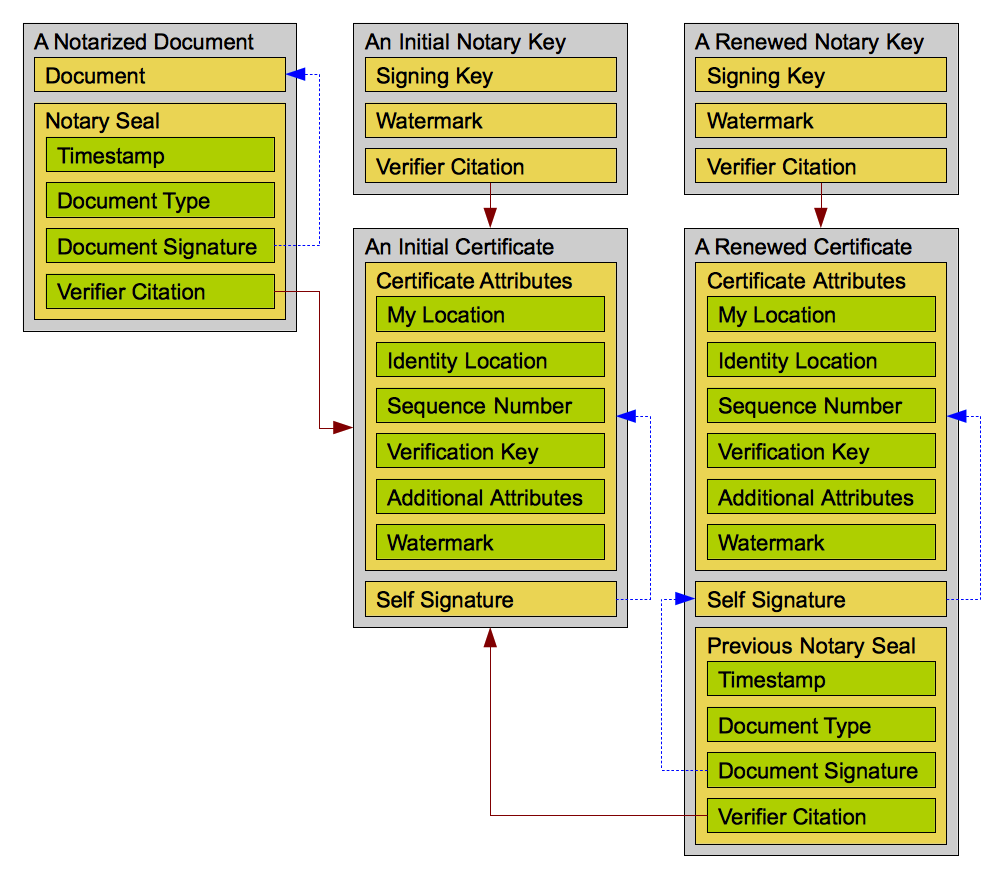
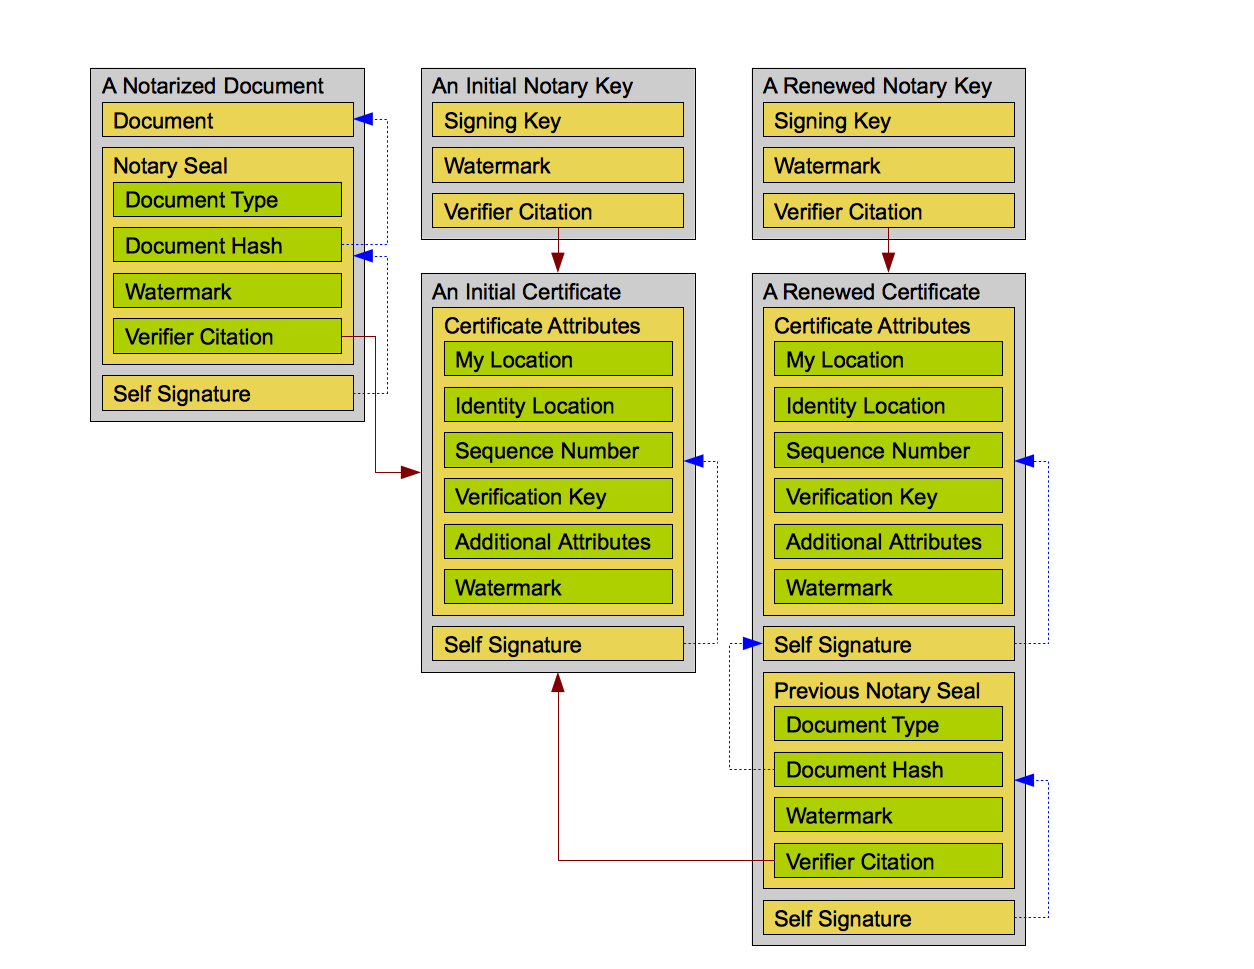
Updated parent pom dependencies to latest version 3.16.

diff --git a/src/main/java/craterdog/notary/V1NotarizationProvider.java b/src/main/java/craterdog/notary/V1NotarizationProvider.java
@@ -291,7 +291,6 @@ public final class V1NotarizationProvider implements Notarization {
 
         logger.debug("Creating the notary seal attributes...");
         SealAttributes attributes = new SealAttributes();
-        attributes.timestamp = DateTime.now();
         attributes.documentType = documentType;
         attributes.documentHash = hashDocument(document);
         attributes.verificationCitation = notaryKey.verificationCitation;
@@ -394,30 +393,25 @@ public final class V1NotarizationProvider implements Notarization {
                 logger.error("The notary seal attributes are missing...");
                 errors.put("seal.attributes.are.missing", seal);
             } else {
-                DateTime timestamp = attributes.timestamp;
                 String documentType = attributes.documentType;
-                String documentHash = attributes.documentHash;
-                DocumentCitation verificationCitation = attributes.verificationCitation;
-                Watermark watermark = attributes.watermark;
-                if (timestamp == null) {
-                    logger.error("The notary seal timestamp is missing...");
-                    errors.put("seal.timestamp.is.missing", seal);
-                }
                 if (documentType == null || documentType.isEmpty()) {
                     logger.error("The notary seal document type is missing...");
                     errors.put("seal.document.type.is.missing", seal);
                 }
+                String documentHash = attributes.documentHash;
                 if (documentHash == null || documentHash.isEmpty()) {
                     logger.error("The notary seal document hash is missing...");
                     errors.put("seal.document.hash.is.missing", seal);
                 }
-                if (verificationCitation == null) {
-                    logger.error("The notary seal verification citation is missing...");
-                    errors.put("seal.verification.citation.is.missing", seal);
-                }
+                Watermark watermark = attributes.watermark;
                 if (watermark == null) {
                     logger.error("The notary seal watermark is missing...");
                     errors.put("seal.watermark.is.missing", seal);
+                }
+                DocumentCitation verificationCitation = attributes.verificationCitation;
+                if (verificationCitation == null) {
+                    logger.error("The notary seal verification citation is missing...");
+                    errors.put("seal.verification.citation.is.missing", seal);
                 }
             }
             if (errors.size() == errorCount) {
@@ -487,13 +481,13 @@ public final class V1NotarizationProvider implements Notarization {
                     logger.error("The notary certificate identity location is missing...");
                     errors.put("certificate.identity.location.is.missing", certificate);
                 }
-                if (attributes.verificationKey == null) {
-                    logger.error("The notary certificate verification key is missing...");
-                    errors.put("certificate.verification.key.is.missing", certificate);
-                }
                 if (attributes.watermark == null) {
                     logger.error("The notary certificate watermark is missing...");
                     errors.put("certificate.watermark.is.missing", certificate);
+                }
+                if (attributes.verificationKey == null) {
+                    logger.error("The notary certificate verification key is missing...");
+                    errors.put("certificate.verification.key.is.missing", certificate);
                 }
             }
             if (errors.size() == errorCount) {

diff --git a/src/main/java/craterdog/notary/SealAttributes.java b/src/main/java/craterdog/notary/SealAttributes.java
@@ -14,7 +14,6 @@ import com.fasterxml.jackson.annotation.JsonAnySetter;
 import craterdog.smart.SmartObject;
 import java.util.LinkedHashMap;
 import java.util.Map;
-import org.joda.time.DateTime;
 
 
 /**
@@ -23,11 +22,6 @@ import org.joda.time.DateTime;
  * @author Derk Norton
  */
 public final class SealAttributes extends SmartObject<SealAttributes> {
-
-    /**
-     * The date and time that the document was notarized.
-     */
-    public DateTime timestamp;
 
     /**
      * The type of document that this seal notarizes.
@@ -49,15 +43,15 @@ public final class SealAttributes extends SmartObject<SealAttributes> {
     public String documentHash;
 
     /**
-     * A citation to the public key that can be used to verify this notary seal.
-     */
-    public DocumentCitation verificationCitation;
-
-    /**
      * The lifetime of the notary key associated with this certificate and the version of the
      * algorithm it uses for signing.
      */
     public Watermark watermark;
+
+    /**
+     * A citation to the public key that can be used to verify this notary seal.
+     */
+    public DocumentCitation verificationCitation;
 
     /*
      * This map is used to hold any JSON attributes that are not mappable to the existing attributes.
